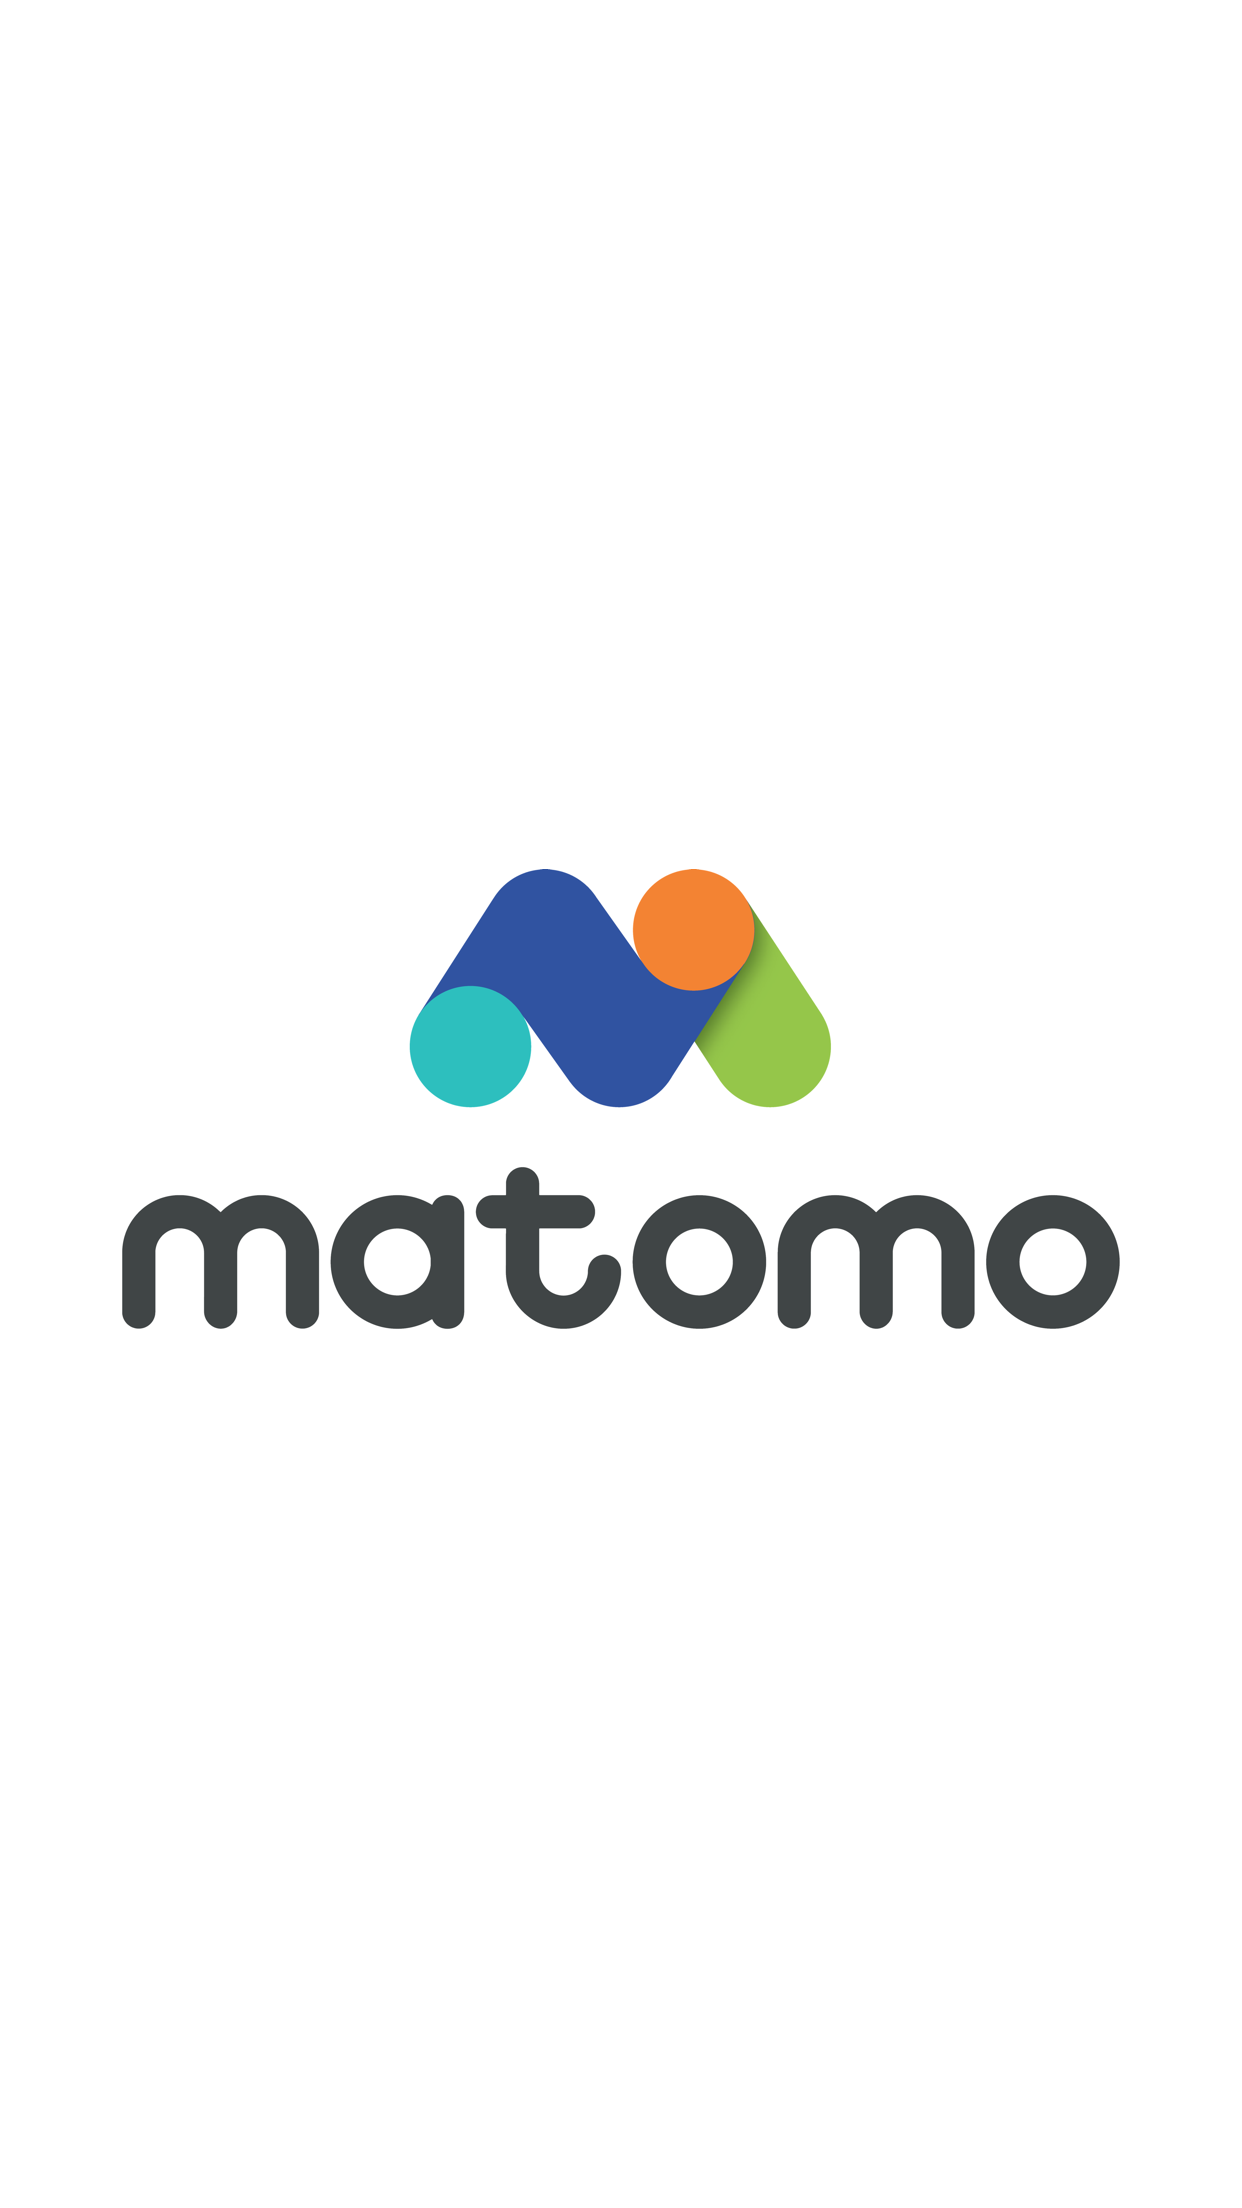
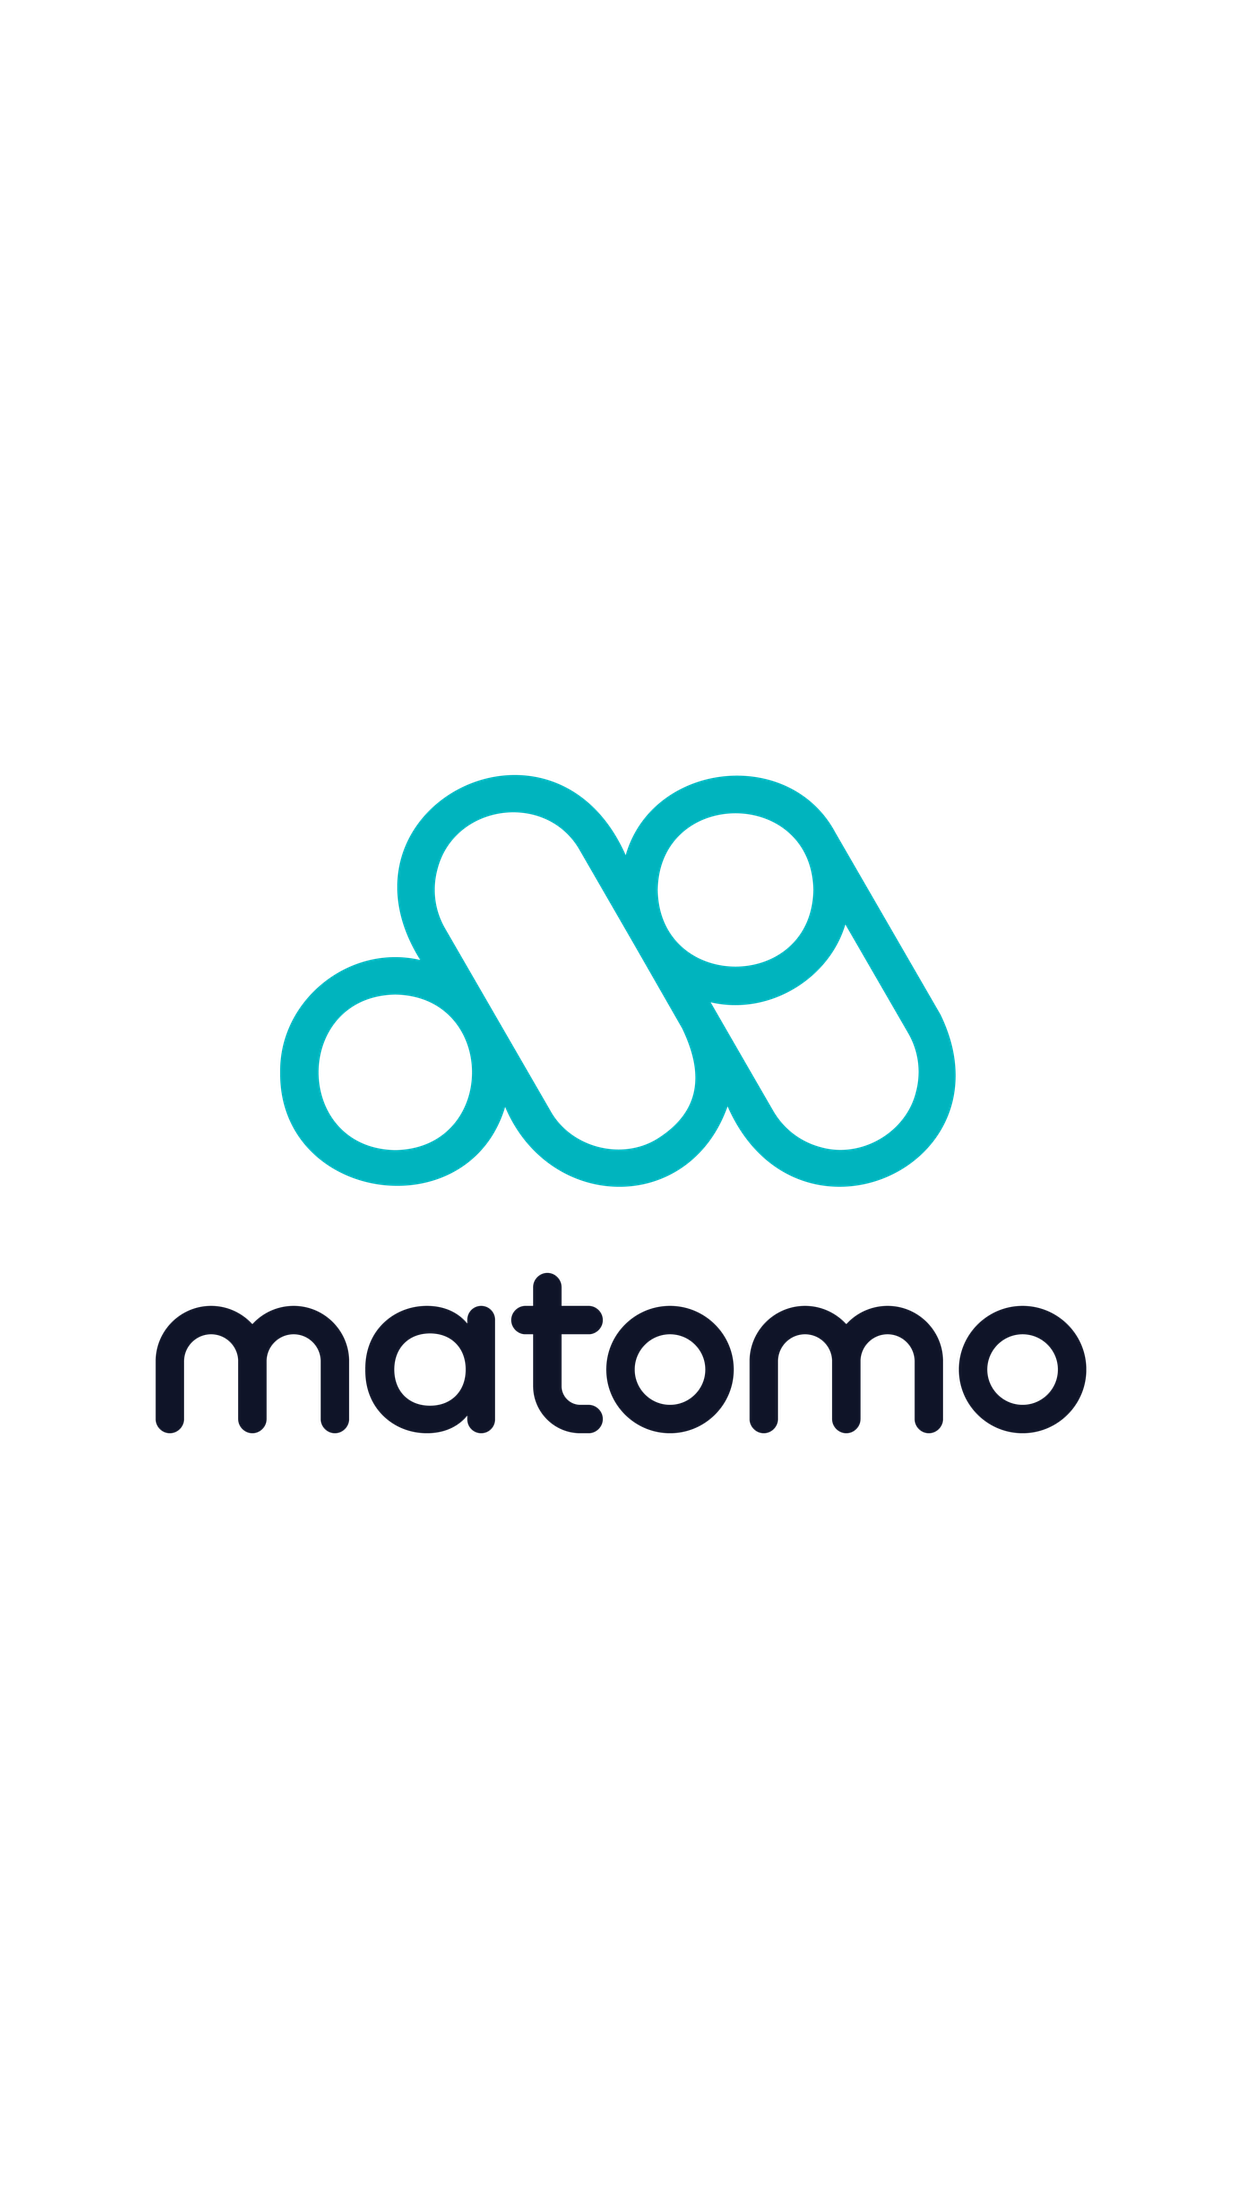
update assets for rebranding

Changed region(s): [[0.0918, 0.3438, 0.9179, 0.6562]]

diff --git a/app/controllers/visitor_log.js b/app/controllers/visitor_log.js
@@ -135,7 +135,7 @@ function scrollToTop()
 
 function getNextRowParams()
 {
-    var nextRow = {title: L('General_Next'), color: '#3450A3', className: 'visitorlogPaginator'};
+    var nextRow = {title: L('General_Next'), color: '#0e1328', className: 'visitorlogPaginator'};
     if (OS_ANDROID) {
         nextRow.leftImage = '/images/spacer_10x10.png';
         nextRow.font   = {fontSize: '15sp', fontWeight: 'bold'};
@@ -155,7 +155,7 @@ function getNextRowParams()
 
 function getPrevRowParams()
 {
-    var prevRow = {title: L('General_Previous'), color: '#3450A3', className: 'visitorlogPaginator'};
+    var prevRow = {title: L('General_Previous'), color: '#0e1328', className: 'visitorlogPaginator'};
     if (OS_ANDROID) {
         prevRow.leftImage = '/images/spacer_10x10.png';
         prevRow.font   = {fontSize: '15sp', fontWeight: 'bold'};

diff --git a/app/controllers/report_with_dimension_base.js b/app/controllers/report_with_dimension_base.js
@@ -171,7 +171,7 @@ exports.renderProcessedReport = function (processedReportCollection)
     if ($.rowsFilterLimit <= processedReportCollection.length) {
         // a show all or show less button only makes sense if there are more or equal results than the used
         // filter limit value...
-        var showAllOptions = {color: '#43a047', title: $.showAllEntries ? L('Mobile_ShowLess') : L('Mobile_ShowAll')};
+        var showAllOptions = {color: '#01b4b8', title: $.showAllEntries ? L('Mobile_ShowLess') : L('Mobile_ShowAll')};
         if (OS_ANDROID) showAllOptions.leftImage = '/images/spacer_10x10.png';
         if (OS_ANDROID) showAllOptions.font = {fontSize: '16sp', fontWeight: 'bold'};
         if (OS_ANDROID) showAllOptions.top = '16dp';

diff --git a/app/controllers/report_without_dimension.js b/app/controllers/report_without_dimension.js
@@ -198,8 +198,8 @@ function renderMetricTile (processedReportModel, index)
     var sortColumnModel  = processedReportModel.getSortOrder();
     var sortColumnReport = processedReportCollection.getSortOrder();
 
-    var labelColor = (sortColumnReport == sortColumnModel) ? '#43a047' : '#212121';
-    var valueColor = (sortColumnReport == sortColumnModel) ? '#53a859' : '#7e7e7e';
+    var labelColor = (sortColumnReport == sortColumnModel) ? '#01b4b8' : '#212121';
+    var valueColor = (sortColumnReport == sortColumnModel) ? '#01b4b8' : '#7e7e7e';
 
     if (0 == (index % 2)) {
         containerRow = Ti.UI.createView({height: Ti.UI.SIZE, width: Ti.UI.FILL, layout: 'horizontal'});

diff --git a/app/lib/commands/sendEmailFeedback.js b/app/lib/commands/sendEmailFeedback.js
@@ -79,7 +79,7 @@ exports.execute = function ()
     emailDialog.toRecipients = ['mobile@matomo.org'];
 
     if (OS_IOS) {
-        emailDialog.barColor = '#3450A3';
+        emailDialog.barColor = '#0e1328';
     }
 
     if (!emailDialog.isSupported()) {
